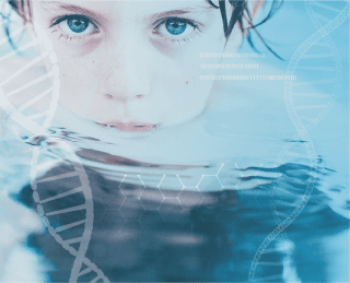
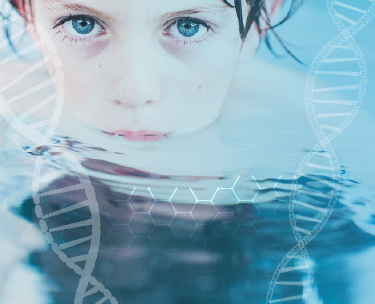
update

diff --git a/css/main.css b/css/main.css
@@ -138,6 +138,9 @@ body {
 #slide .txt span {
     font-size: 1.8rem;
 }
+#slide img {
+    height: 100%;
+}
 #slide .book {
     max-width: 300px;
     position: absolute;
